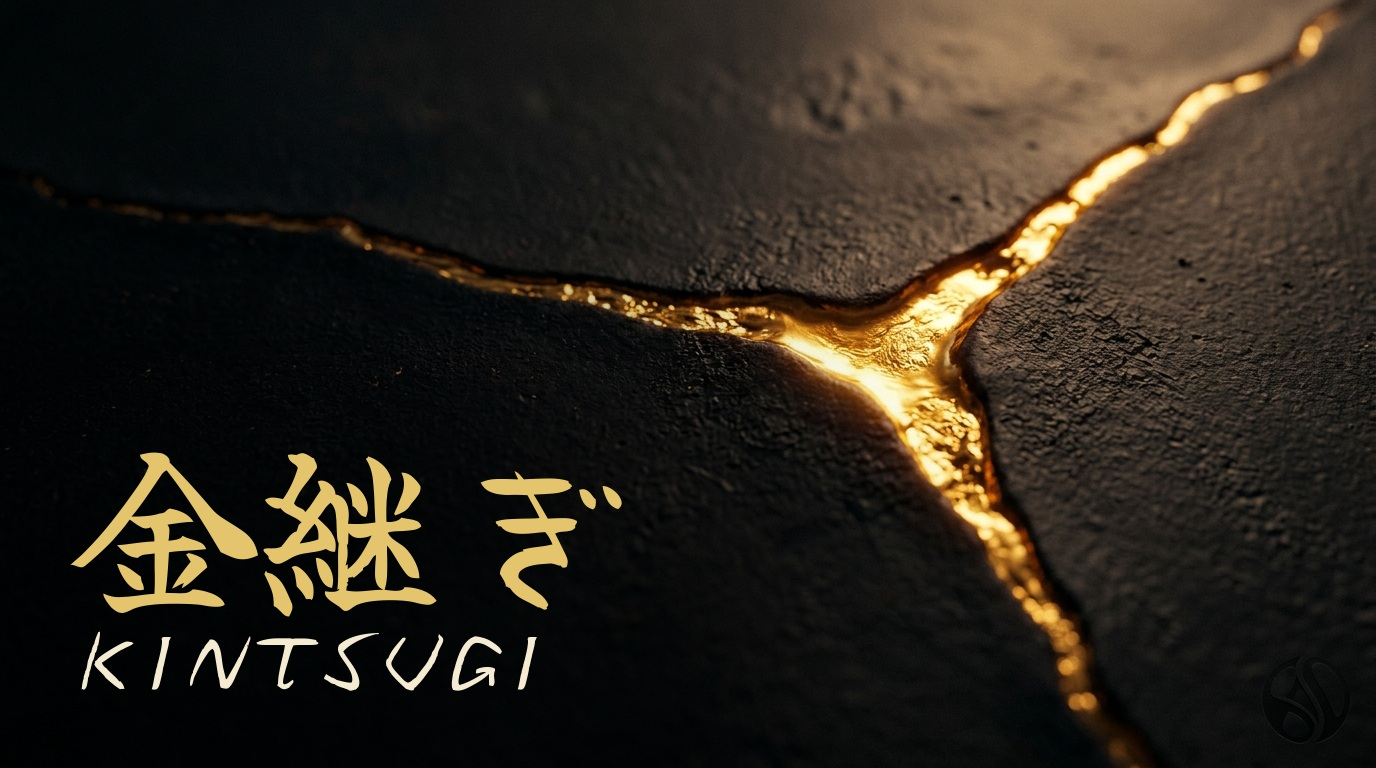
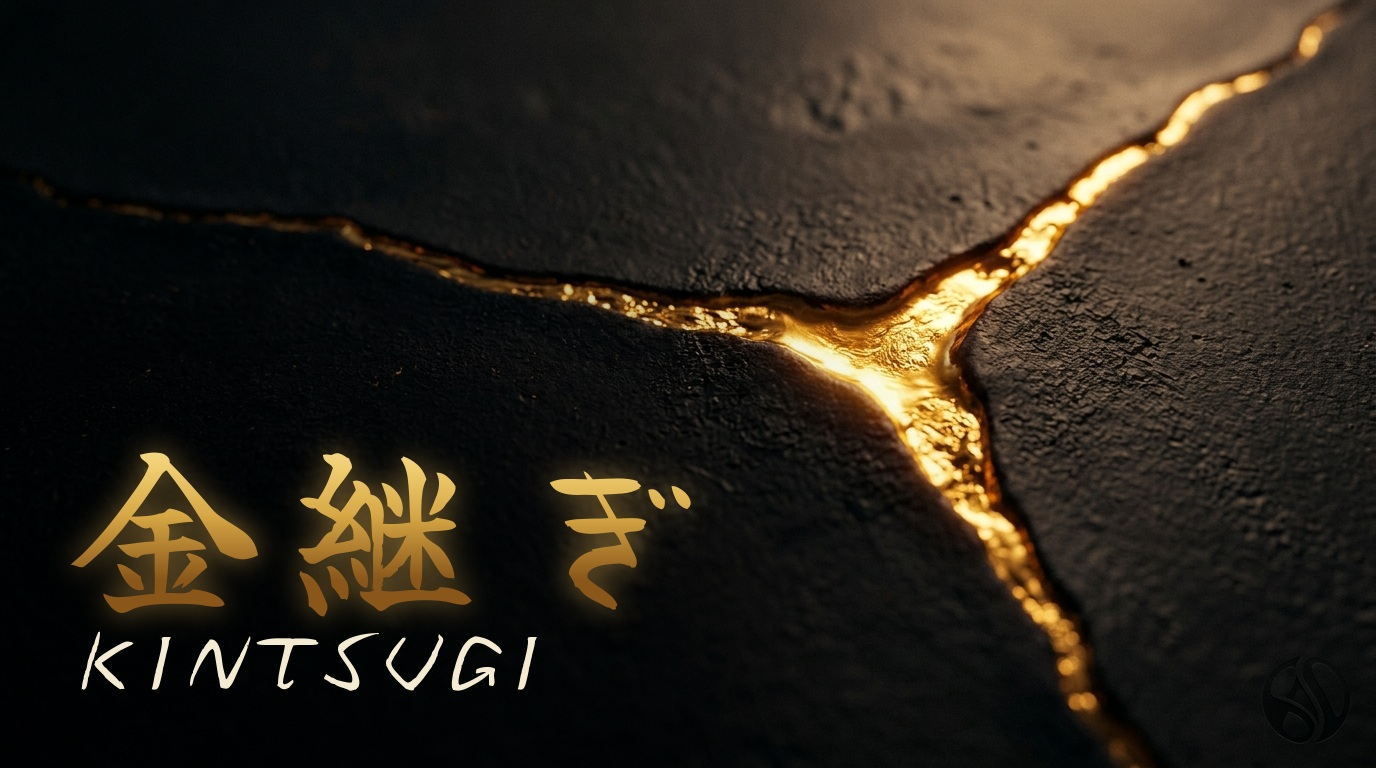
KINTSUGI thumbnail: molten-gold gradient + glow on 金継ぎ (matches the seam), tighten ぎ

Changed region(s): [[0.0312, 0.5625, 0.5, 0.8125]]

diff --git a/stillwave/assets/kintsugi-compose-thumb.py b/stillwave/assets/kintsugi-compose-thumb.py
@@ -1,35 +1,61 @@
 #!/usr/bin/env python3
-"""KINTSUGI thumbnail — 金継ぎ + KINTSUGI (brush, gold) upper-center over the golden-seam macro."""
+"""KINTSUGI thumbnail — 金継ぎ (molten-gold gradient, like the seam) + KINTSUGI, lower-left under the seam."""
 from PIL import Image, ImageDraw, ImageFont, ImageFilter
 
 SRC = "/root/.claude/uploads/48780e4d-ee5f-5a8f-92df-523468e19c72/345c3f36-1000203709.jpg"
 OUT = "/home/user/dan-documents/stillwave/assets/kintsugi-thumb.jpg"
 FONT = "/home/user/dan-documents/stillwave/assets/fonts/YujiBoku-Regular.ttf"
-GOLD = (228, 196, 108)
 CREAM = (245, 234, 210)
 
 img = Image.open(SRC).convert("RGB")
 W, H = img.size
 
-# darken the LOWER-LEFT zone (where text goes, under the seam) so gold text reads
+# darken the LOWER-LEFT zone (under the seam) so the text reads
 veil = Image.new("RGBA", (W, H), (0, 0, 0, 0))
-ImageDraw.Draw(veil).ellipse((-W*0.35, H*0.30, W*0.60, H*1.35), fill=(0, 0, 0, 125))
+ImageDraw.Draw(veil).ellipse((-W*0.35, H*0.30, W*0.60, H*1.35), fill=(0, 0, 0, 130))
 img = Image.alpha_composite(img.convert("RGBA"), veil.filter(ImageFilter.GaussianBlur(80))).convert("RGB")
-
-d = ImageDraw.Draw(img)
 
 kanji = ImageFont.truetype(FONT, 188)
 romaji = ImageFont.truetype(FONT, 78)
+x0, y0 = 70, int(H * 0.50)
 
-# kanji glyph-by-glyph at fixed pitch, in the LOWER-LEFT under the seam
-chars = ["金", "継", "ぎ"]
-pitch = 184
-x0, y0 = 70, int(H*0.50)
-for i, ch in enumerate(chars):
-    d.text((x0 + i*pitch, y0), ch, font=kanji, fill=GOLD)
+# --- kanji into a mask, packed tight by ink width (kills the brush font's ぎ gap) ---
+mask = Image.new("L", (W, H), 0)
+md = ImageDraw.Draw(mask)
+cursor, gap = x0, 30
+for ch in ["金", "継", "ぎ"]:
+    l, t, r, b = kanji.getbbox(ch)
+    md.text((cursor - l, y0), ch, font=kanji, fill=255)
+    cursor += (r - l) + gap
 
-# romaji left-aligned under the kanji block
-d.text((x0 + 6, y0 + 214), "KINTSUGI", font=romaji, fill=CREAM)
+# --- molten-gold vertical gradient (like the seam: hot core, amber, deep bronze) ---
+stops = [(0.00, (255, 240, 186)), (0.35, (240, 205, 112)),
+         (0.62, (216, 168, 70)), (1.00, (138, 86, 26))]
+def lerp(a, b, f): return tuple(int(a[i] + (b[i]-a[i])*f) for i in range(3))
+def grad_color(f):
+    f = max(0.0, min(1.0, f))
+    for i in range(len(stops)-1):
+        f0, c0 = stops[i]; f1, c1 = stops[i+1]
+        if f <= f1:
+            return lerp(c0, c1, (f-f0)/(f1-f0))
+    return stops[-1][1]
+
+y_top, y_bot = y0 + 24, y0 + 196
+col = Image.new("RGB", (1, H))
+for y in range(H):
+    col.putpixel((0, y), grad_color((y - y_top) / (y_bot - y_top)))
+grad = col.resize((W, H))
+
+# soft warm glow behind the kanji (glows from within, like the gold)
+glow = Image.new("RGBA", (W, H), (0, 0, 0, 0))
+glow.paste((255, 196, 92), (0, 0), mask.filter(ImageFilter.GaussianBlur(14)).point(lambda p: int(p*0.55)))
+img = Image.alpha_composite(img.convert("RGBA"), glow).convert("RGB")
+
+# fill the kanji with the gradient through the mask
+img.paste(grad, (0, 0), mask)
+
+# romaji — cream, left-aligned under the kanji
+ImageDraw.Draw(img).text((x0 + 6, y0 + 214), "KINTSUGI", font=romaji, fill=CREAM)
 
 img.save(OUT, quality=94)
 print("saved", OUT, img.size)
